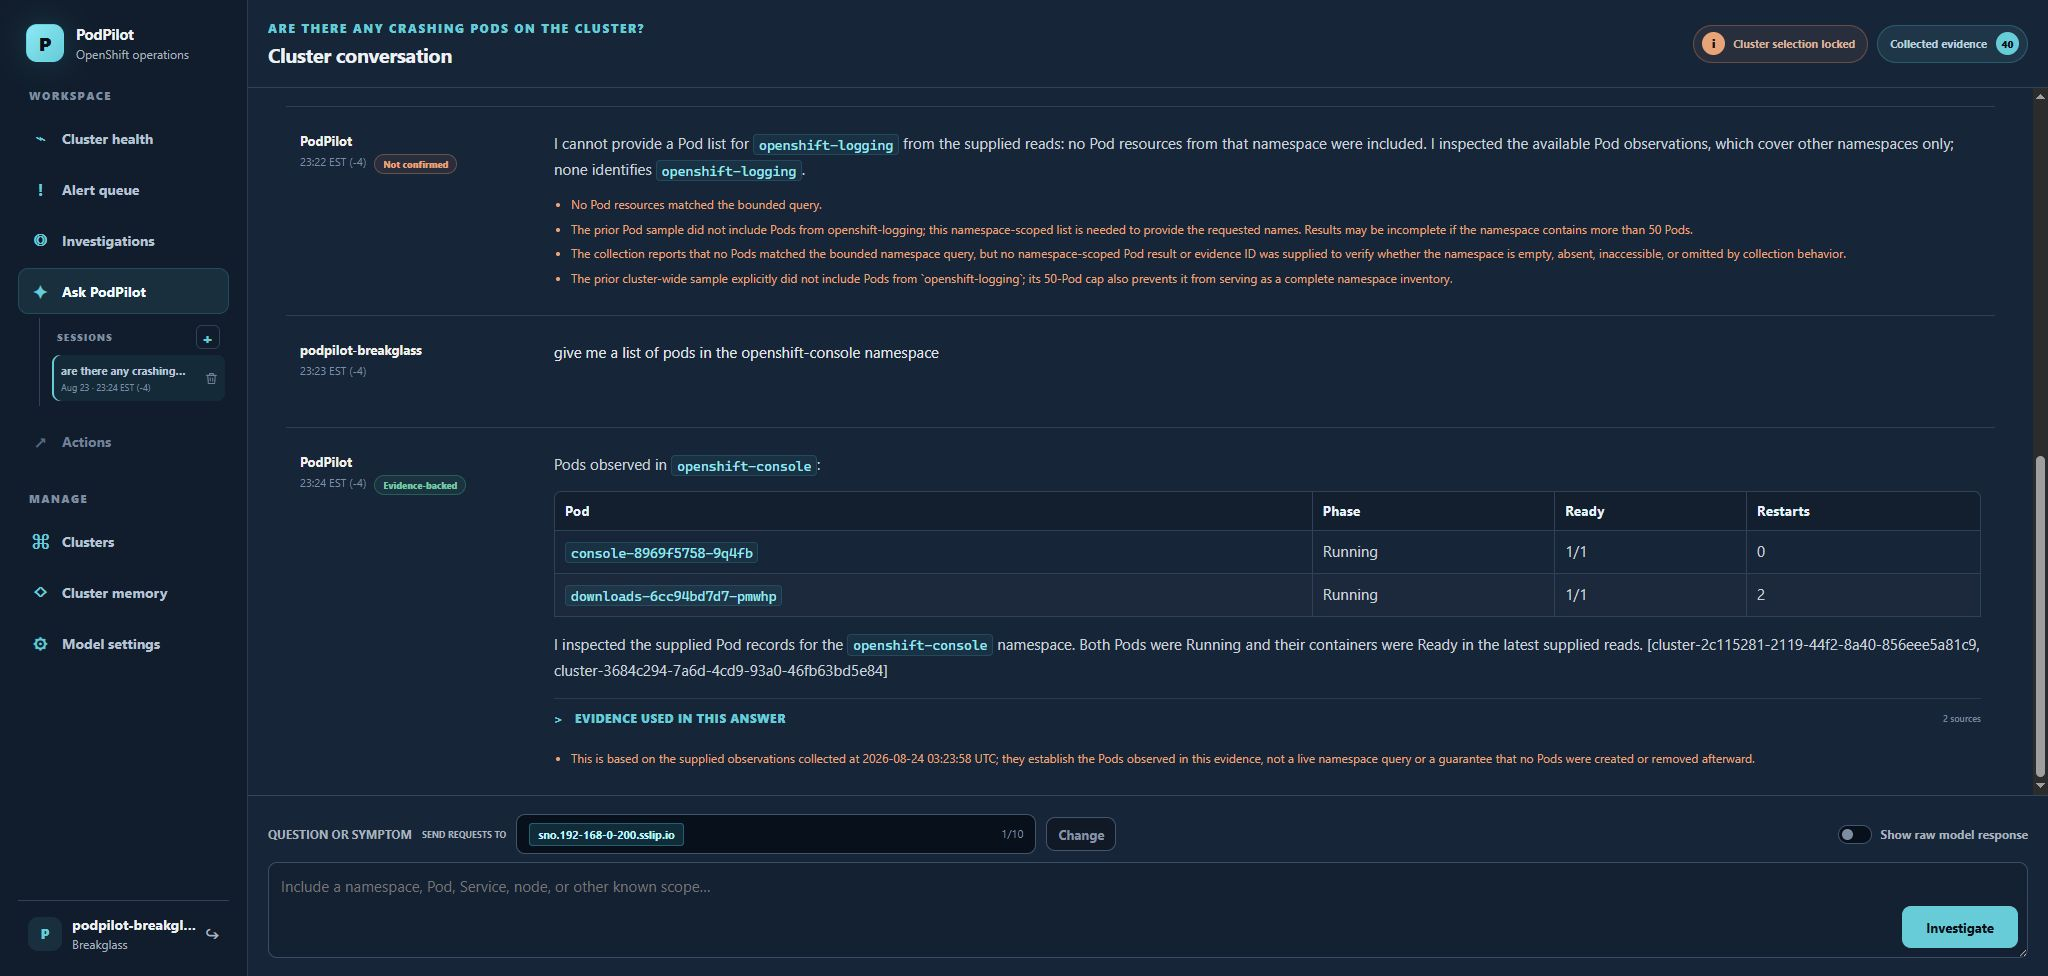
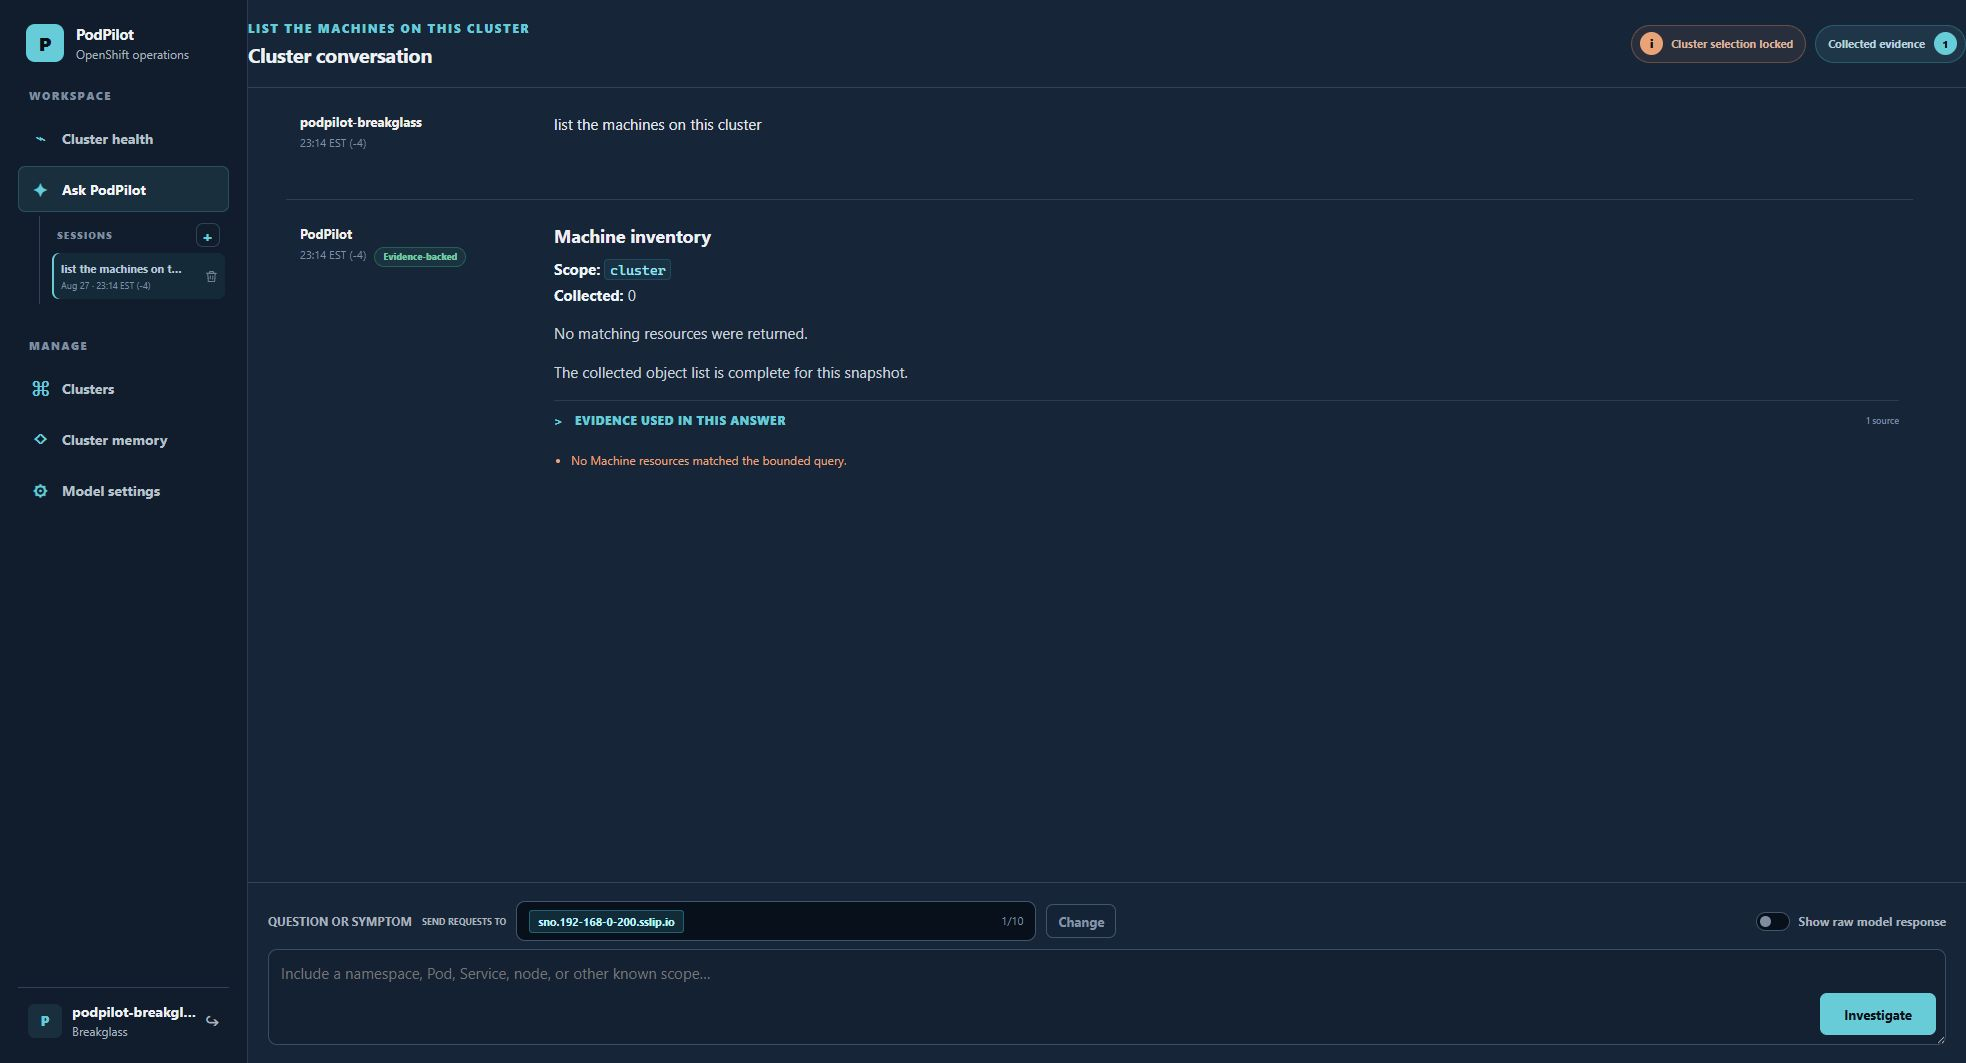
Extend Quiet Ledger design across site

diff --git a/apps/web/static/styles.css b/apps/web/static/styles.css
@@ -667,3 +667,74 @@ body { font-size: 15px; }
 .side-empty p { font-size: 13px; }
 .metric-heading, .alert-main p, .checklist-panel li { font-size: 13px; }
 .metric-card p, .alert-meta span, .role-scope p { font-size: 12px; }
+
+/* Quiet Ledger — one calm, divider-led surface across the complete product. */
+:root {
+  --bg: #172538;
+  --surface: #172538;
+  --surface-raised: #1b2a3e;
+  --surface-soft: #203047;
+  --border: #304158;
+  --border-bright: #42556f;
+  --text: #edf1f4;
+  --muted: #a8b3bf;
+  --subtle: #7f8da0;
+  --cyan: #67cbd8;
+  --cyan-soft: rgba(103, 203, 216, .1);
+  --green: #78c9a3;
+  --orange: #e9a379;
+  --shadow: none;
+  --radius: 0;
+}
+
+html, body { background: var(--surface); }
+body { background-image: none; }
+.sidebar { border-color: #2b3b50; background: #111d2c; backdrop-filter: none; }
+.main { background: var(--surface); }
+.brand-mark { border-radius: 9px; background: #67cbd8; box-shadow: none; }
+.nav-link { border-radius: 7px; color: #b7c1cb; }
+.nav-link.active { border-color: rgba(103, 203, 216, .2); color: #f3f5f5; background: rgba(103, 203, 216, .1); }
+.nav-session-list li, .nav-subtree-heading a, .avatar { border-radius: 7px; }
+
+.panel, .metric-card { border-color: var(--border); border-radius: 0; background: transparent; box-shadow: none; }
+.panel-header { padding-inline: 0; }
+.button { border-radius: 7px; }
+.button.secondary { background: rgba(20, 33, 51, .42); }
+.tag { border-radius: 5px; background: rgba(17, 29, 44, .55); }
+.notice { border-width: 1px 0; border-radius: 0; background: rgba(233, 163, 121, .055); }
+
+.metrics { gap: 0; border-top: 1px solid var(--border); border-bottom: 1px solid var(--border); }
+.metric-card { min-height: 126px; padding: 20px 18px; border-width: 0 1px 0 0; }
+.metric-card:last-child { border-right: 0; }
+.metric-card.healthy { border-color: var(--border); }
+.metric-value { margin-top: 17px; }
+
+.content-grid, .settings-grid, .model-registry-layout, .memory-layout, .investigation-grid {
+  gap: 0;
+  border-top: 1px solid var(--border);
+  border-bottom: 1px solid var(--border);
+}
+.content-grid > *, .settings-grid > *, .model-registry-layout > *, .memory-layout > *, .investigation-grid > * { border: 0; }
+.content-grid > * + *, .settings-grid > * + *, .model-registry-layout > * + *, .memory-layout > * + *, .investigation-grid > * + * { border-left: 1px solid var(--border); }
+.content-grid .panel-header, .settings-grid .panel-header, .model-registry-layout .panel-header, .memory-layout .panel-header, .investigation-grid .panel-header { padding-inline: 20px; }
+.memory-search-panel, .investigation-summary, .investigation-plan, .model-analysis, .investigation-chat, .action-panel { border-width: 1px 0; margin-top: 20px; }
+.memory-search-panel .panel-header, .investigation-plan .panel-header, .model-analysis .panel-header, .investigation-chat .panel-header, .action-panel .panel-header { padding-inline: 20px; }
+.investigation-summary { padding-inline: 20px; }
+.memory-results li, .action-card, .metric-result { border-width: 0 0 1px; border-radius: 0; background: transparent; }
+.memory-results li:last-child, .action-card:last-child { border-bottom: 0; }
+.model-profile-list li, .memory-document-list li a { border-radius: 6px; }
+.role-scope { border-width: 1px 0 0; border-radius: 0; background: transparent; }
+.alert-meta span, .empty-steps span { background: rgba(17, 29, 44, .58); }
+.evidence-dialog { background: #172538; box-shadow: -18px 0 48px rgba(7, 14, 23, .34); }
+
+@media (max-width: 1050px) {
+  .settings-grid > * + *, .model-registry-layout > * + *, .memory-layout > * + *, .content-grid > *, .investigation-grid > * + * { border-left: 0; }
+  .settings-grid > * + *, .model-registry-layout > * + *, .memory-layout > * + *, .content-grid > * + *, .investigation-grid > * + * { border-top: 1px solid var(--border); }
+}
+
+@media (max-width: 720px) {
+  .metrics { grid-template-columns: 1fr 1fr; }
+  .metric-card { min-height: 112px; border-right: 0; border-bottom: 1px solid var(--border); }
+  .metric-card:nth-child(odd) { border-right: 1px solid var(--border); }
+  .metric-card:last-child { grid-column: 1 / -1; border-bottom: 0; }
+}

diff --git a/apps/web/templates/base.html b/apps/web/templates/base.html
@@ -6,7 +6,7 @@
   <meta name="color-scheme" content="dark">
   {% if csrf_token is defined %}<meta name="podpilot-csrf" content="{{ csrf_token }}">{% endif %}
   <title>{% block title %}PodPilot{% endblock %}</title>
-  <link rel="stylesheet" href="{{ url_for('static', path='/styles.css') }}">
+  <link rel="stylesheet" href="{{ url_for('static', path='/styles.css') }}?v=quiet-ledger-2">
   <script src="{{ url_for('static', path='/app.js') }}" defer></script>
 </head>
 <body class="{% block body_class %}{% endblock %}">
@@ -25,14 +25,6 @@
         <a class="nav-link {% if request.url.path == '/' %}active{% endif %}" href="/">
           <span class="nav-icon" aria-hidden="true">⌁</span>
           Cluster health
-        </a>
-        <a class="nav-link" href="/#alert-queue">
-          <span class="nav-icon" aria-hidden="true">!</span>
-          Alert queue
-        </a>
-        <a class="nav-link" href="/#recent-investigations">
-          <span class="nav-icon" aria-hidden="true">◎</span>
-          Investigations
         </a>
         <div class="nav-tree {% if request.url.path.startswith('/ask') %}expanded{% endif %}">
           <a class="nav-link {% if request.url.path.startswith('/ask') %}active{% endif %}" href="/ask">
@@ -67,11 +59,6 @@
           </div>
           {% endif %}
         </div>
-        <span class="nav-link disabled" aria-disabled="true">
-          <span class="nav-icon" aria-hidden="true">↗</span>
-          Actions
-        </span>
-
         <p class="nav-label section-gap">Manage</p>
         {% if user is defined and user.role.value >= 30 %}
         <a class="nav-link {% if request.url.path == '/settings/clusters' %}active{% endif %}" href="/settings/clusters">
@@ -83,7 +70,7 @@
           <span class="nav-icon" aria-hidden="true">◇</span>
           Cluster memory
         </a>
-        <a class="nav-link" href="/settings/model">
+        <a class="nav-link {% if request.url.path == '/settings/model' %}active{% endif %}" href="/settings/model">
           <span class="nav-icon" aria-hidden="true">⚙</span>
           Model settings
         </a>

diff --git a/design-qa.md b/design-qa.md
@@ -1,54 +1,50 @@
-# Quiet Ledger Chat Redesign QA
+# Quiet Ledger Site-wide Redesign QA
 
-## Comparison Target
+## Comparison target
 
 - Source visual truth: `C:\Users\zdrux\.codex\generated_images\01a0463d-1d49-7eb1-bdea-fc62cd42c430\exec-94c3e556-1835-4d6a-b546-dd2a28714c09.png`
-- Browser-rendered implementation: `C:\Users\zdrux\Desktop\projects\PodPilot\design-qa-implementation.png`
-- Combined comparison evidence: `C:\Users\zdrux\Desktop\projects\PodPilot\design-qa-comparison.png`
-- Narrow-width evidence: `C:\Users\zdrux\Desktop\projects\PodPilot\design-qa-narrow.png`
-- Deployed route: `https://podpilot-ai-ops.apps.sno.192-168-0-200.sslip.io/ask/8ed4502c-e328-4e55-a617-22d6f87b8a63`
-- State: authenticated `podpilot-breakglass` user, existing six-message Ask conversation, newest response visible, evidence drawer closed.
+- Browser-rendered Ask implementation: `C:\Users\zdrux\Desktop\projects\PodPilot\design-qa-implementation.png`
+- Combined source/implementation evidence: `C:\Users\zdrux\Desktop\projects\PodPilot\design-qa-comparison.png`
+- Browser-rendered dashboard: `C:\Users\zdrux\Desktop\projects\PodPilot\design-qa-dashboard.png`
+- Narrow dashboard evidence: `C:\Users\zdrux\Desktop\projects\PodPilot\design-qa-narrow.png`
+- Deployed application: `https://podpilot-ai-ops.apps.sno.192-168-0-200.sslip.io/`
+- State: authenticated `podpilot-breakglass` user against live SNO data on build 32.
 
-## Viewport And Normalization
+## Viewports and coverage
 
-- Source pixels: 1816 x 866 at 72 DPI.
-- Implementation pixels and CSS viewport: 2048 x 976 at device scale 1 and 72 DPI.
-- The source was normalized to 2048 x 976 for the side-by-side comparison. Its aspect ratio differs by less than 0.1%, so no meaningful crop or density correction was needed.
-- Responsive check: 720 x 900 CSS pixels at device scale 1; body width remained 720 pixels with no horizontal page overflow.
+- Selected source: 1816 × 866 pixels.
+- Ask implementation: 1966 × 1063 pixels at the existing Chrome desktop viewport.
+- Dashboard implementation: 1951 × 1055 pixels at the existing Chrome desktop viewport.
+- Responsive check: 720 × 980 CSS pixels; captured content was 705 × 960 after browser chrome. No horizontal page overflow was visible.
+- The side-by-side comparison normalizes both Ask images into equal 908 × 533 regions without cropping.
 
 ## Findings
 
 No actionable P0, P1, or P2 differences remain.
 
-- Fonts and typography: the implementation preserves the source's compact operator hierarchy, 15px readable transcript body, small metadata, and monospace treatment for technical values. Live answer content is longer than the mock data but wraps without clipping.
-- Spacing and layout rhythm: messages occupy full-width transcript rows, the author/time/status metadata uses a dedicated left column, and low-contrast horizontal dividers replace the previous rounded message containers. Header, thread, and composer form one continuous surface.
-- Colors and visual tokens: the deployed Ask page uses the selected mellow slate-blue surface, silver-blue dividers, warm off-white text, pastel cyan actions, sage evidence states, and subdued apricot limitations without glow or high-contrast section blocks.
-- Image quality and assets: the selected direction contains no raster content that must be recreated. The existing PodPilot brand mark remains sharp at both tested widths.
-- Copy and content: live operational copy and persisted conversation data were intentionally preserved instead of replacing them with the mock's audit example.
-- Interaction and accessibility: the 40-item evidence drawer opened and closed correctly, the raw-response switch toggled, the composer enabled its action after text entry, keyboard-semantic controls remained intact, and Chrome reported no console warnings or errors.
-- Responsive behavior: at 720 x 900 the sidebar collapses to the brand/identity header, transcript metadata stacks above message content, the composer controls remain reachable, and no horizontal page overflow occurs.
+- Visual system: every tested route now shares the selected mellow slate-blue background, warm off-white type, silver-blue dividers, pastel cyan actions, sage success, and apricot warning accents.
+- Hierarchy: dashboard metrics, operational alerts, investigation lists, registries, forms, capability status, and incident sections use continuous surfaces and divider-led grouping instead of independent floating cards.
+- Ask fidelity: messages remain full-width transcript rows with a dedicated metadata column, subtle separators, a fixed composer, and flattened evidence/recommendation treatments.
+- Navigation: Alert Queue, Investigations, and the unused Actions placeholder are absent. Cluster Health, Ask PodPilot, Clusters, Cluster Memory, and Model Settings each showed exactly one correct active state in Chrome.
+- Functional coverage: Dashboard, Ask, Clusters, Memory, Model Settings, and an existing investigation detail rendered successfully with live data. Form controls, evidence semantics, status labels, and action affordances remain intact.
+- Responsive behavior: the 720px dashboard stacks the shell header, keeps metrics in a legible two-column rail, returns the signal-freshness item to full width, and preserves the operational queue without clipping.
+- Deployment: the stylesheet URL is versioned so Chrome does not retain the older site-wide design after rollout.
 
-## Focused Region Comparison
+## Comparison history
 
-A separate crop was not required. Both halves of `design-qa-comparison.png` preserve the desktop screen at native 976px height, and the transcript metadata, dividers, status colors, table, evidence row, and composer remain readable at that scale. The narrow capture separately verifies the responsive stacking behavior.
+- Pass 1: the deployed HTML showed the new navigation but Chrome retained the cached pre-redesign stylesheet.
+- Pass 2: added an explicit stylesheet version, deployed build 32, and confirmed the selected palette and divider hierarchy on all routes.
+- Final comparison: source and Ask implementation align on background continuity, metadata/content columns, horizontal rhythm, pastel status colors, sidebar density, and composer placement. Live copy differs intentionally from the concept mock.
 
-## Comparison History
+## Implementation checklist
 
-- Pass 1: no P0/P1/P2 mismatches found. The implementation matched the selected direction's continuous background, two-column transcript hierarchy, divider rhythm, pastel palette, and fixed composer without a corrective visual iteration.
-
-## Follow-up Polish
-
-- P3: the existing sidebar uses legacy text glyphs for several navigation icons. Replacing the entire product icon set with a coherent packaged icon family would improve consistency, but it is outside the selected chat-surface redesign and does not block this pass.
-- P3: very long authenticated usernames truncate in the compact desktop identity footer, matching existing behavior; a future identity-menu pass could expose the full name on hover or focus.
-
-## Implementation Checklist
-
-- [x] Uniform Ask background across header, thread, and composer.
-- [x] Full-width message rows with subtle horizontal separators.
-- [x] Dedicated desktop metadata column and narrow-width stacking.
-- [x] Flattened evidence and recommendation treatments.
-- [x] Authenticated Chrome interaction verification.
-- [x] Desktop and narrow-width overflow checks.
-- [x] Console warning/error check.
+- [x] Uniform background and token system across the full product.
+- [x] Card-heavy dashboard and management layouts converted to divider-led sections.
+- [x] Ask transcript treatment preserved across the global redesign.
+- [x] Unused sidebar destinations removed.
+- [x] Active navigation state verified on every remaining route.
+- [x] Authenticated Chrome review of Dashboard, Ask, Clusters, Memory, Model Settings, and investigation detail.
+- [x] Desktop and 720px responsive checks.
+- [x] Source/implementation comparison image reviewed.
 
 final result: passed

diff --git a/docs/project-status.md b/docs/project-status.md
@@ -519,6 +519,16 @@ current repository and cluster state.
   Classification retries once after invalid JSON, and a failed unrelated classification cannot cite
   prior audit evidence.
 
+## 2026-08-28 Site-wide Quiet Ledger redesign
+
+- Extended the selected Quiet Ledger direction from Ask to the complete operator UI: Cluster Health, cluster registry, cluster memory, model registry, and investigation detail pages now share one mellow slate-blue surface and divider-led hierarchy.
+- Replaced floating dashboard metrics and page panels with continuous rails, subtle silver-blue separators, and flatter status treatments while preserving evidence, provenance, forms, action controls, and live cluster data.
+- Removed the unused Alert Queue, Investigations, and disabled Actions entries from primary navigation. Correct active states are now present for every remaining route, including Model Settings.
+- Versioned the stylesheet request so an existing Chrome session receives the redesign immediately after rollout instead of retaining the earlier cached CSS.
+- SNO binary build `podpilot-32` is deployed at digest `sha256:0b9240a085ee297ee9a740a12b4bab057d48e44a42120cb7503491e0a2f5eca7`.
+- Authenticated Chrome QA covered Dashboard, Ask, Clusters, Memory, Model Settings, an investigation detail, and the 720px responsive dashboard. `design-qa.md` records the passed source/implementation comparison.
+- Model-free verification remains green: 425 tests passed with 84% coverage.
+
 ## Known Limitations
 
 - Single-cluster, single-replica PoC with SNO-local storage and no production
